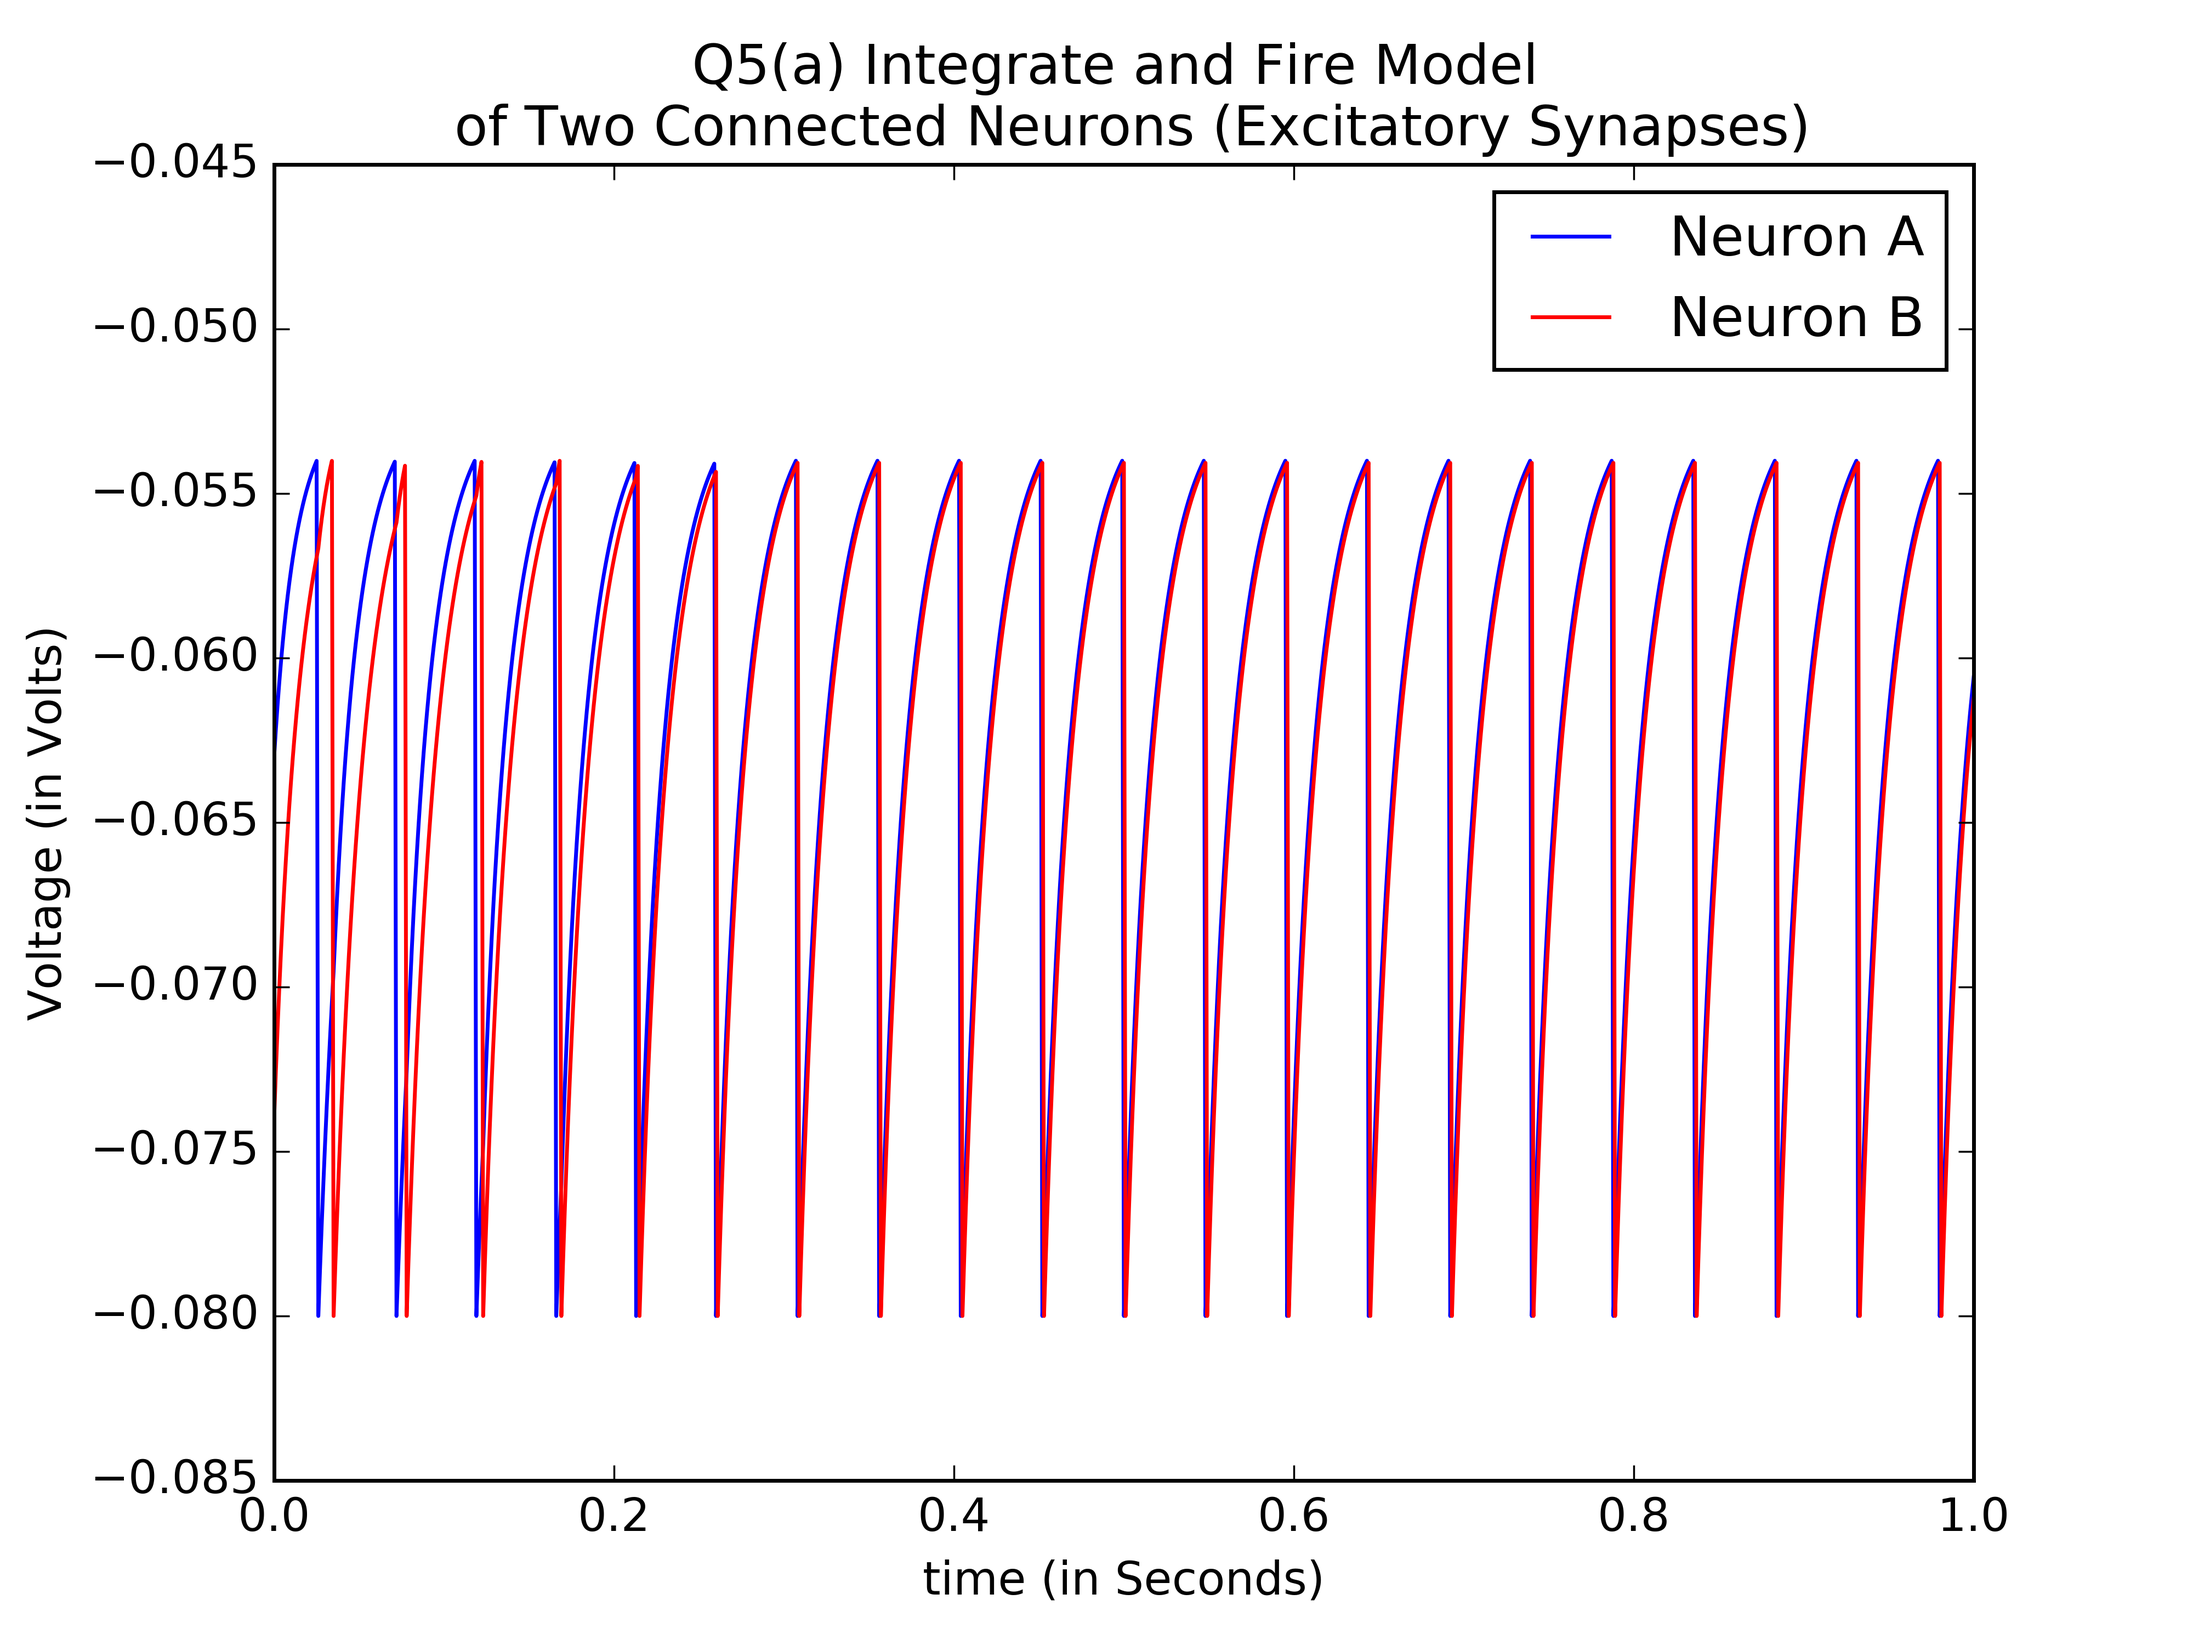
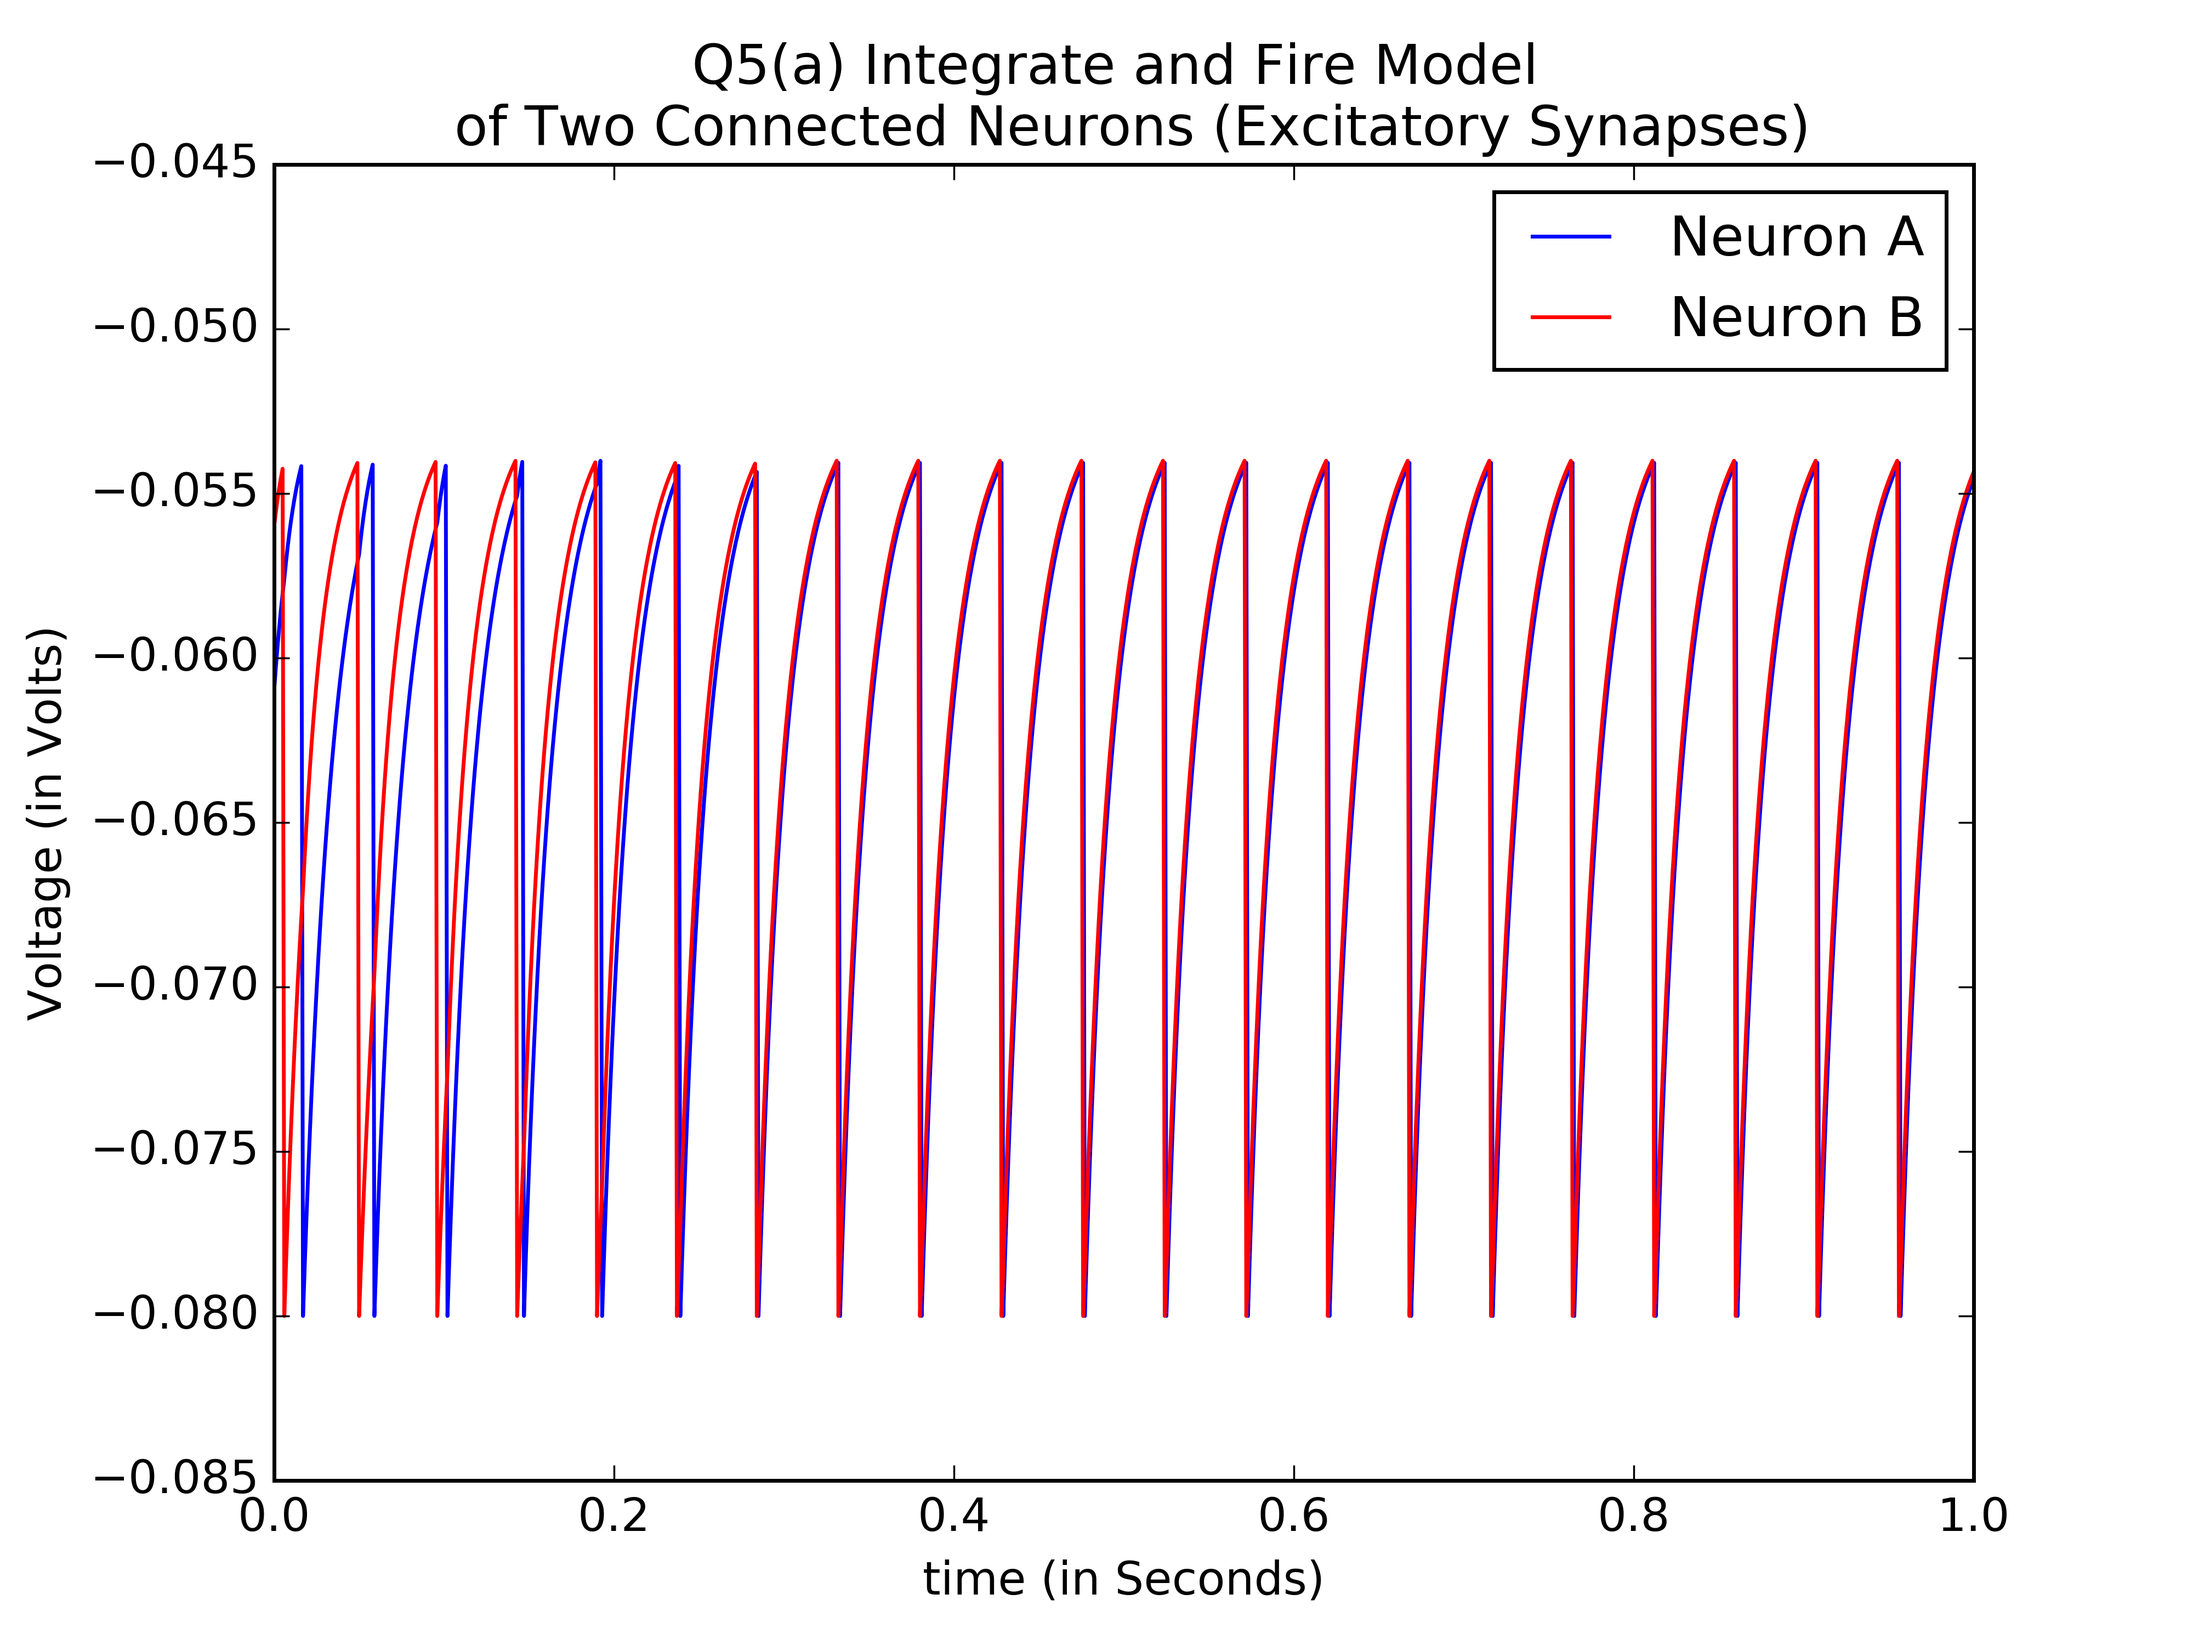
Added

Changed region(s): [[0.125, 0.279, 0.9062, 0.806]]

diff --git a/main.tex b/main.tex
@@ -1,0 +1,182 @@
+%%%%%%%%%%%%%%%%%%%%%%%%%%%%%%%%%%%%%%%%%
+% Large Colored Title Article
+% LaTeX Template
+% Version 1.1 (25/11/12)
+%
+% This template has been downloaded from:
+% http://www.LaTeXTemplates.com
+%
+% Original author:
+% Frits Wenneker (http://www.howtotex.com)
+%
+% License:
+% CC BY-NC-SA 3.0 (http://creativecommons.org/licenses/by-nc-sa/3.0/)
+%
+%%%%%%%%%%%%%%%%%%%%%%%%%%%%%%%%%%%%%%%%%
+
+%----------------------------------------------------------------------------------------
+%	PACKAGES AND OTHER DOCUMENT CONFIGURATIONS
+%----------------------------------------------------------------------------------------
+
+\documentclass[DIV=calc, paper=a4, fontsize=12pt, twocolumn]{article}	 % A4 paper and 11pt font size
+
+\usepackage{graphicx} % enables importing images
+\usepackage[cm]{fullpage} % page margin fix
+\usepackage[english]{babel} % English language/hyphenation
+\usepackage[protrusion=true,expansion=true]{microtype} % Better typography
+\usepackage{amsmath,amsfonts,amsthm} % Math packages
+\usepackage[svgnames]{xcolor} % Enabling colors by their 'svgnames'
+\usepackage[hang, small,labelfont=bf,up,textfont=it,up]{caption} % Custom captions under/above floats in tables or figures
+\usepackage{booktabs} % Horizontal rules in tables
+\usepackage{fix-cm}	 % Custom font sizes - used for the initial letter in the document
+\usepackage{float}
+
+\usepackage{sectsty} % Enables custom section titles
+\usepackage{titlesec} % enables inserting margins around sections and subsections
+
+\allsectionsfont{\usefont{OT1}{phv}{b}{n}} % Change the font of all section commands
+
+\usepackage{pgfplots} % package to plot graphs using data
+\usepackage{fancyhdr} % Needed to define custom headers/footers
+\pagestyle{fancy} % Enables the custom headers/footers
+\usepackage{lastpage} % Used to determine the number of pages in the document (for "Page X of Total")
+
+% Headers
+% raisebox moves text in header up, header text needs to be enclosed in curly brackets
+\lhead{\raisebox{0.5\height} {COMS30127 - Computational Neuroscience}}
+\chead{}
+\rhead{\raisebox{0.5\height} {24 Mar 2017}}
+
+% Footers
+\lfoot{}
+\cfoot{}
+\rfoot{\footnotesize Page \thepage\ of \pageref{LastPage}} % "Page 1 of 2"
+
+\renewcommand{\headrulewidth}{0.2pt} % Thin header rule
+\renewcommand{\footrulewidth}{0.4pt} % Thin footer rule
+\headsep 5pt
+\usepackage{lettrine} % Package to accentuate the first letter of the text
+\newcommand{\initial}[1]{ % Defines the command and style for the first letter
+	\lettrine[lines=3,lhang=0.3,nindent=0em]{
+		\color{Black}
+		{\textsf{#1}}}{}}
+
+\setlength{\intextsep}{2pt}
+\setlength{\textfloatsep}{2pt}
+%----------------------------------------------------------------------------------------
+%	TITLE SECTION
+%----------------------------------------------------------------------------------------
+
+\usepackage{titling} % Allows custom title configuration
+
+\newcommand{\HorRule}{\color{Black} \rule{\linewidth}{1pt}} % Defines the blue horizontal rule under the title
+	
+
+\pretitle{\vspace{-10pt} \begin{center} \fontsize{20}{20} \usefont{OT1}{phv}{b}{n} \color{Black} \selectfont} % Horizontal rule before the title
+	
+	\title{Coursework 1: Neuron Model Simulation} % Your article title
+	
+	\posttitle{\end{center}} % Whitespace under the title
+
+\preauthor{ \begin{center}\large \lineskip -1em \usefont{OT1}{phv}{b}{sl} \color{Black}} % Author font configuration
+	
+	\author{Shichao Dong (sd16998)} % Your name
+	
+	\postauthor{\vspace{-10pt} \footnotesize \usefont{OT1}{phv}{m}{sl} \color{Black} % Configuration for the institution name
+		
+		\par\end{center}\HorRule } % Horizontal rule after the title
+
+\date{\vspace{-30pt}} % Add a date here if you would like one to appear underneath the title block
+
+%----------------------------------------------------------------------------------------
+
+%\pgfplotsset{compat=1.14} 
+\begin{document}	
+	\maketitle % Print the title
+	
+	\thispagestyle{fancy} % Enabling the custom headers/footers for the first page 
+	
+	%----------------------------------------------------------------------------------------
+	%	INTRODUCTION
+	%----------------------------------------------------------------------------------------
+	
+	% The first character should be within \initial{}
+	\textbf{This report aims to simulate different neuron models and give answer to the coursework questions. Python is used as programming language, and helps to generate figures for different scenarios.}
+
+	%----------------------------------------------------------------------------------------
+	%	ARTICLE CONTENTS
+	%----------------------------------------------------------------------------------------
+	%\vfill
+    %\bigskip
+	\subsection*{Q1. Simulate an Integrate and Fire Model}
+			The figure blow shows a basic neuron simulation of the integrate and fire model. Euler's method is used with a timestep of $1 ms$.  Based on the equation, the voltage arises until it exceeds the threshold (- 40mV). A spike will be produced as a result and the voltage will be reseted to Vr (-70mV).
+           
+        \begin{figure}[H]
+			\includegraphics*[width = 9.5cm]{Q1}
+		\end{figure}
+	
+	%\vfill
+	\bigskip	
+	\subsection*{Q2. Compute the Minimum Current to Produce an Action Potential}
+		\begin{equation}
+			I_emin = \dfrac{V_t - E_L}{R_m}
+		\end{equation}
+		\begin{equation}
+			I_emin = \dfrac{-40 mV - (-70 mV)}{10M\Omega} = 3.0nA
+		\end{equation}
+	%\vfill
+	\bigskip	
+	\subsection*{Q3. Simulate an Integrate and Fire Model with the Current Lower than the Minimum}
+	The minimum current value for this model is known as $3.0 nA$ from previous question. The current used in this question is $0.1 nA$ lower than the minimum, which is $I_e = 2.9 nA$. As our expectation, no spikes are generated in this simulation.
+		\begin{figure}[H]
+			\includegraphics*[width = 9.5cm]{Q3}
+		\end{figure}
+	%\vfill	
+	%\bigskip	
+	\subsection*{Q4. Simulate with Varies Input Current and their Firing Rate of Neuron}
+	This question requires to plot of the fire rate as a function of the input current. No spikes are observed if $I_e$ is blow $3.0 nA$, which is the minimum current required. The number of spikes generated are increased as the value of $I_e$ goes up. The figure here is in a stair like shape. If changes the timestep from $1 ms$ to $0.1 ms$, we could observe that the number of spikes are more or less proportional with the input current value, which forms like a straight line in the figure.
+
+        \begin{figure}[H]
+			\includegraphics*[width = 9.5cm]{Q4}
+		\end{figure}
+		 \begin{figure}[H]
+			\includegraphics*[width = 9.5cm]{Q4_extra}
+		\end{figure}
+	%\vfill
+    %\bigskip
+	\subsection*{Q5. Simulate Two Connected Neurons}
+	Same parameters are used for both neurons for simulation.The simple synapse model is as a time-dependent conductor in series with a battery. The simulation is performed in two sections where synapses is excitatory or inhibitory.The initial membrane potentials of two neurons are selected randomly within the range
+	\par 
+	In Q5(a), the synapses are excitatory where reversal potential $E_s = 0 mV$. It can be observed that even two neurons voltage are started at different value, both voltage value can be converged after few cycles.
+		\begin{figure}[H]
+			\includegraphics*[width = 9.5cm]{Q5a}
+		\end{figure}
+	In Q5(b), the synapses are inhibitory where reversal potential $E_s = -80 mV$. It can be observed that the voltage of two neurons remains at the same difference in steps and not affected by the performance of each other.
+		\begin{figure}[H]
+			\includegraphics*[width = 9.5cm]{Q5b}
+		\end{figure}
+	%\vfill
+	%\eject
+    \bigskip
+    \bigskip
+	\subsection*{Q6. Simulate an Integrate and Fire Model with Potassium Current}
+	The neuron model simulated is similar with the model in Q1 but with a slow potassium current. This current is caused by the reversal potential $E_K = -80mV$. While the voltage of the neuron model is escalating as usual, it decays towards zero with the time constant of $200ms$ and the value of decay accumulates. In fact, this decay slows down the incremental of voltage and the voltage still rise. Once the threshold is exceeded, a spike is generated and the conductance should increase by 0.005. These characteristics makes the neuron have lesser and lesser spiking rate over the time. That also means the time required for generate a spike becomes more. After some time, the neuron will lost the ability to produce a spike as what is shown in the figure below
+    
+	\par
+		\begin{figure}[htb]
+			\includegraphics*[width = 9.5cm]{Q6} 
+		\end{figure}
+ 	The figure below has a time range from 0 to 0.3s, which helps to observe more clearly about the change in firing rate.        
+        \begin{figure}[htb]
+			\includegraphics*[width = 9.5cm]{Q6_extra} 
+		\end{figure}
+	\bigskip
+    \subsection*{Q7. Alpha Function Model Vs Single Exponential Model}
+	Single exponential model is one of the simplest way of modelling synapse behavior, it assumes an instant rise of conductance every time there is a spike as long as an exponential decay with a time constant.
+	\par 
+	However the rise of conductance is not instance in alpha function. It describes a rising phase with certain amount of time instead. Such behavior of rising phase of conductance happens for most synapses and has strong effects on dynamics between neurons. The way of change in voltage will also be affect.
+	\par    
+	Besides, alpha function modelling only has one time constant value. That means the rise and decay are very closely related. The values could not be set independently.
+	%------------------------------------------------
+	
+\end{document}
